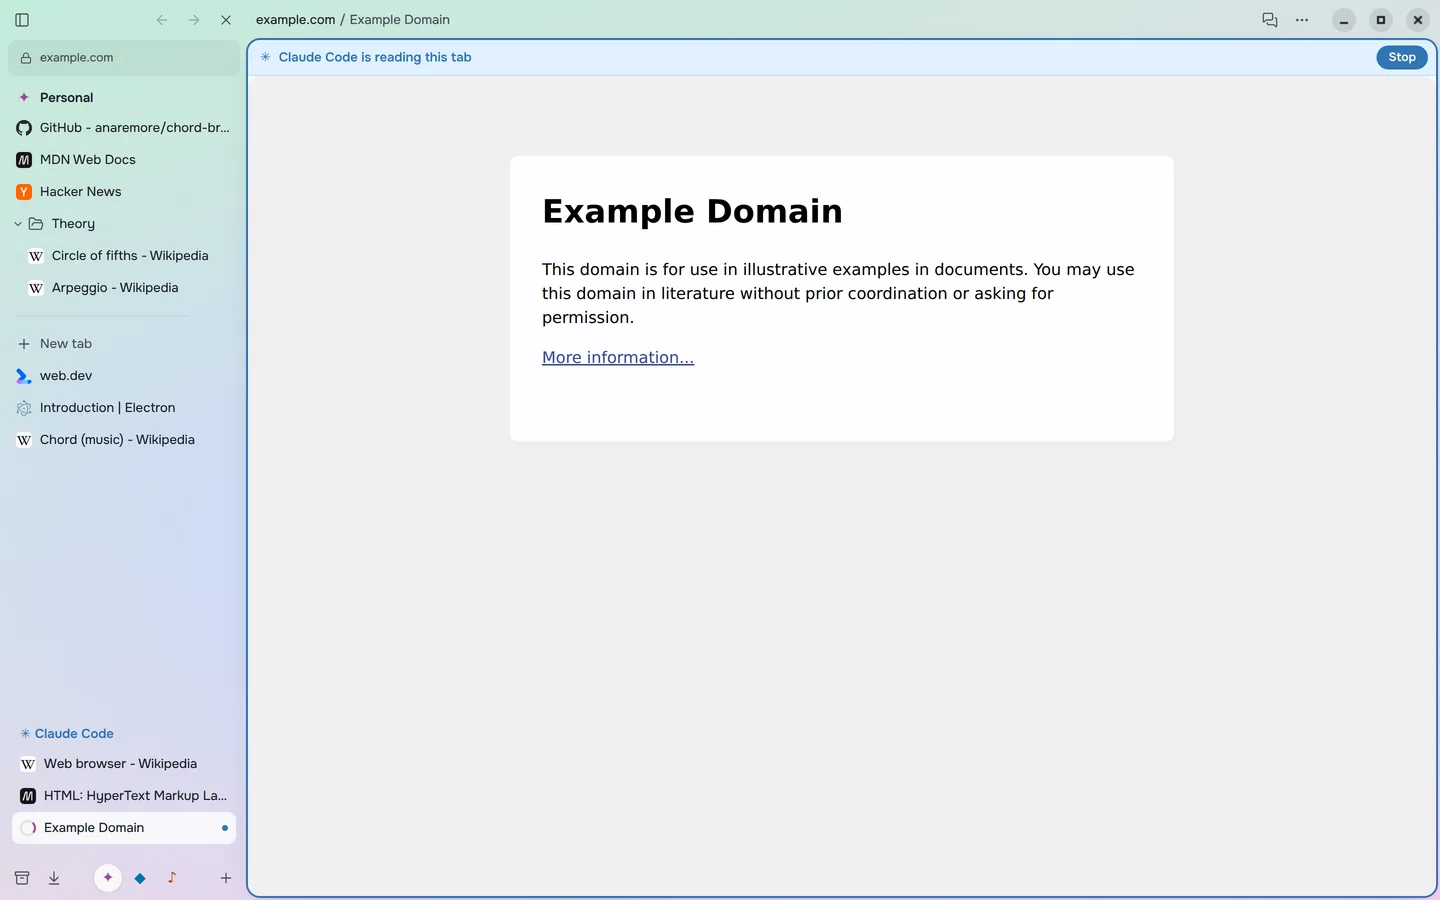
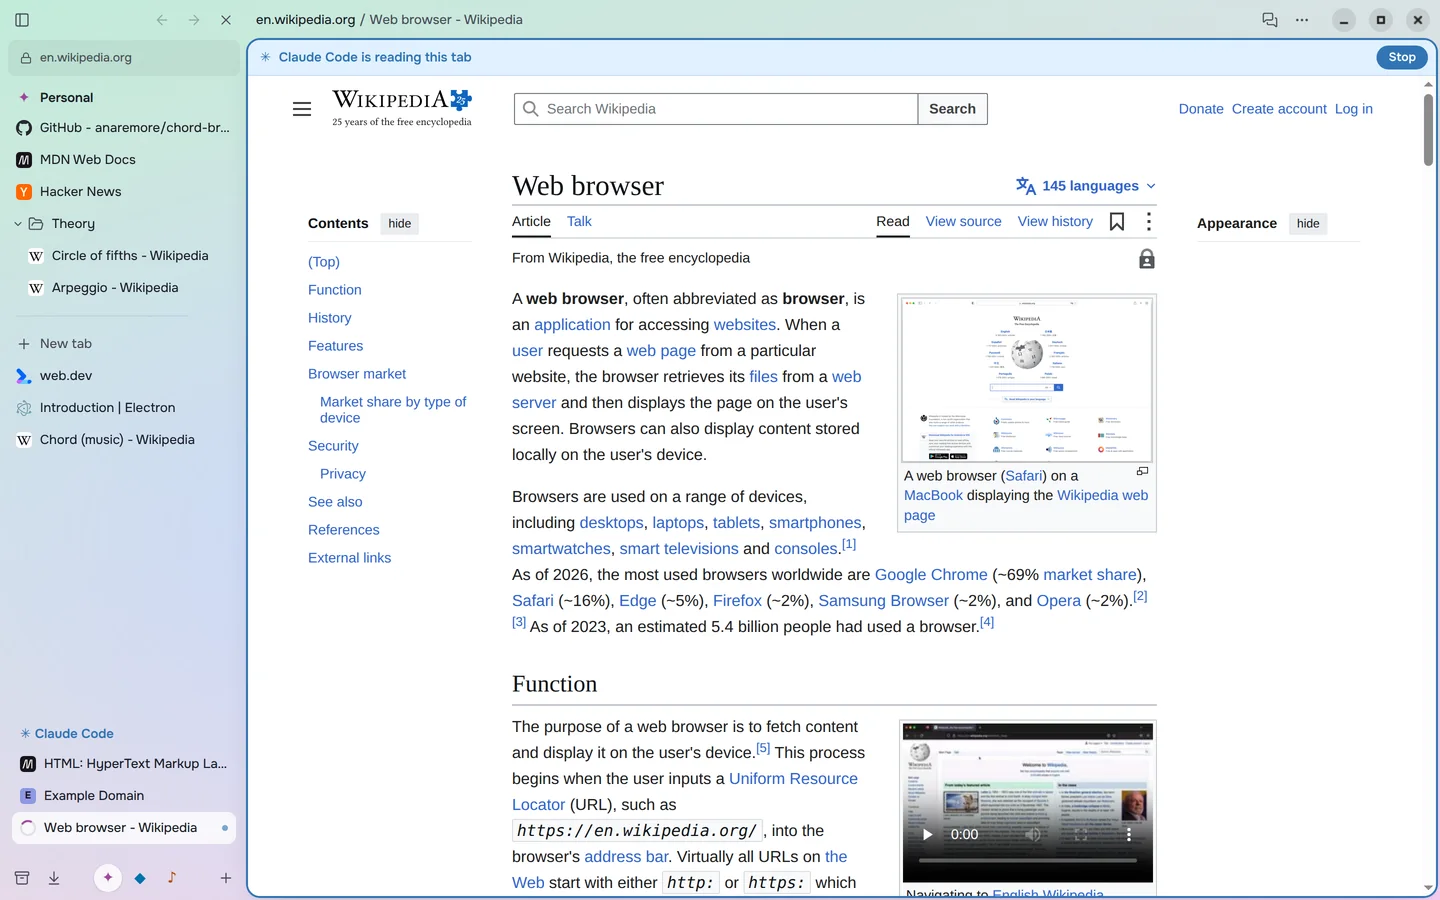
Site: the Agents screenshot reads Wikipedia's Web browser article

diff --git a/apps/desktop/test/shots/shots.spec.ts b/apps/desktop/test/shots/shots.spec.ts
@@ -15,7 +15,6 @@
  */
 import { execFileSync, spawn } from 'node:child_process';
 import { mkdirSync, mkdtempSync, readFileSync, writeFileSync } from 'node:fs';
-import type { ServerResponse } from 'node:http';
 import { createServer } from 'node:https';
 import type { AddressInfo } from 'node:net';
 import { tmpdir } from 'node:os';
@@ -331,15 +330,16 @@ test('light: passwords, the menu under a sign-in field', async () => {
 });
 
 /**
- * The agents picture's page that's being worked on: example.com as a stand-in, served from this machine as the
- * passwords picture's sign-in page is. Its text draws at once and an image on it never finishes, so the agent's
- * open_tab is still at work, and its bar up, when the picture is taken.
+ * One of the agent's tabs in the agents picture: example.com as a stand-in, served from this machine as the passwords
+ * picture's sign-in page is.
  */
 const AGENT_HOST = 'example.com';
+/** The page the agent is at work on in the picture. */
+const AGENT_PAGE_URL = 'https://en.wikipedia.org/wiki/Web_browser';
 const AGENT_PAGE =
   '<!doctype html><title>Example Domain</title><link rel="icon" href="data:,">' +
   '<style>body{margin:0;background:#f0f0f2;font:16px/1.5 -apple-system,system-ui,sans-serif}div{width:600px;margin:5em auto;padding:2em;background:#fdfdff;border-radius:.5em;box-shadow:2px 3px 7px 2px #00000005}h1{margin-top:0}a{color:#38488f}</style>' +
-  '<div><h1>Example Domain</h1><p>This domain is for use in illustrative examples in documents. You may use this domain in literature without prior coordination or asking for permission.</p><p><a href="https://www.iana.org/domains/example">More information...</a></p><img src="/slow.png" alt="" width="1" height="1"></div>';
+  '<div><h1>Example Domain</h1><p>This domain is for use in illustrative examples in documents. You may use this domain in literature without prior coordination or asking for permission.</p><p><a href="https://www.iana.org/domains/example">More information...</a></p></div>';
 
 /** `chord mcp` from this build, as an agent starts it: Claude Code, here, talking to the Chord on `profile`. */
 function agentRelay(profile: string) {
@@ -373,10 +373,8 @@ function agentRelay(profile: string) {
 test('light: agents, Claude Code at work in its own chord', async () => {
   const dir = mkdtempSync(join(tmpdir(), 'chord-shots-cert-'));
   execFileSync('openssl', ['req', '-x509', '-newkey', 'rsa:2048', '-nodes', '-days', '2', '-subj', `/CN=${AGENT_HOST}`, '-addext', `subjectAltName=DNS:${AGENT_HOST}`, '-keyout', join(dir, 'key.pem'), '-out', join(dir, 'cert.pem')], { stdio: 'ignore' });
-  const held: ServerResponse[] = [];
   const server = createServer({ key: readFileSync(join(dir, 'key.pem')), cert: readFileSync(join(dir, 'cert.pem')) }, (req, res) => {
-    // The image never comes: the page never stops loading.
-    if (req.url === '/slow.png') return void held.push(res);
+    req.resume();
     res.writeHead(200, { 'content-type': 'text/html; charset=utf-8' });
     res.end(AGENT_PAGE);
   });
@@ -389,36 +387,46 @@ test('light: agents, Claude Code at work in its own chord', async () => {
   try {
     await agent.request('initialize', { protocolVersion: '2025-11-25', capabilities: {}, clientInfo: { name: 'claude-code', title: 'Claude Code', version: '2.1.328' } });
     // Its first call asks: Allow once, on the card.
-    const first = agent.call('open_tab', { url: 'https://en.wikipedia.org/wiki/Web_browser' });
+    const first = agent.call('open_tab', { url: PAGES.html });
     const popover = await pageWhere(app, (u) => isPopover(u) && !u.includes('#'));
     const card = popover.getByRole('alertdialog', { name: 'Claude Code wants to use Chord' });
     await card.waitFor({ timeout: 20_000 });
     await sleep(700);
     await card.getByRole('button', { name: 'Allow once', exact: true }).click();
     await first;
-    await agent.call('open_tab', { url: PAGES.html });
-    // The tab it's working on: open_tab still waiting on the page, the agent's bar over it, with Stop.
-    void agent.call('open_tab', { url: `https://${AGENT_HOST}/` });
+    await agent.call('open_tab', { url: `https://${AGENT_HOST}/` });
+    await iconsLoaded(shell);
+    // The tab it's working on, Wikipedia's Web browser article: its open_tab still waiting on the page, the agent's
+    // bar over it, with Stop. The page's one async script (MediaWiki's startup, which nothing on screen waits for) is
+    // held from main, so the page draws in full and never finishes loading. This takes the sessions' request
+    // listener, Chord's own, for the rest of this throwaway run.
+    await app.evaluate(({ session, webContents }) => {
+      const sessions = new Set([session.defaultSession, ...webContents.getAllWebContents().map((c) => c.session)]);
+      for (const s of sessions) s.webRequest.onBeforeRequest({ urls: ['*://en.wikipedia.org/w/load.php?*modules=startup*'] }, () => undefined);
+    });
+    void agent.call('open_tab', { url: AGENT_PAGE_URL });
     let working: { id: string } | undefined;
     for (const end = Date.now() + 20_000; !working && Date.now() < end; await sleep(200)) {
-      working = await shell.evaluate(async (host) => {
+      working = await shell.evaluate(async (url) => {
         const { state } = await (window as unknown as ChordGlobal).chord.state.snapshot();
         return Object.values(state.nodes)
           .flatMap((b) => Object.values(b))
-          .find((n) => n.kind === 'tab' && (n.url ?? '').includes(host));
-      }, AGENT_HOST);
+          .find((n) => n.kind === 'tab' && n.url === url);
+      }, AGENT_PAGE_URL);
     }
     if (!working) throw new Error('open_tab made no tab');
     await dispatch(shell, { t: 'tab.activate', windowId, nodeId: working.id });
     await shell.getByRole('status').filter({ hasText: 'Claude Code is reading this tab' }).waitFor({ timeout: 10_000 });
+    await pageWhere(app, (u) => u === AGENT_PAGE_URL);
+    await sleep(2500);
     await shell.evaluate(() => (document.activeElement as HTMLElement | null)?.blur());
     await rest(shell);
     await quietBanners(app);
-    await iconsLoaded(shell);
+    // Taken well inside open_tab's 30 s wait, while the bar is still up.
     await capture(app, 'Chord', 'agents');
+    if (!(await shell.getByRole('status').filter({ hasText: 'Claude Code is reading this tab' }).isVisible())) throw new Error('The bar went before the picture was taken');
   } finally {
     agent.child.kill();
-    for (const res of held) res.destroy();
     await app.close();
     server.close();
   }
